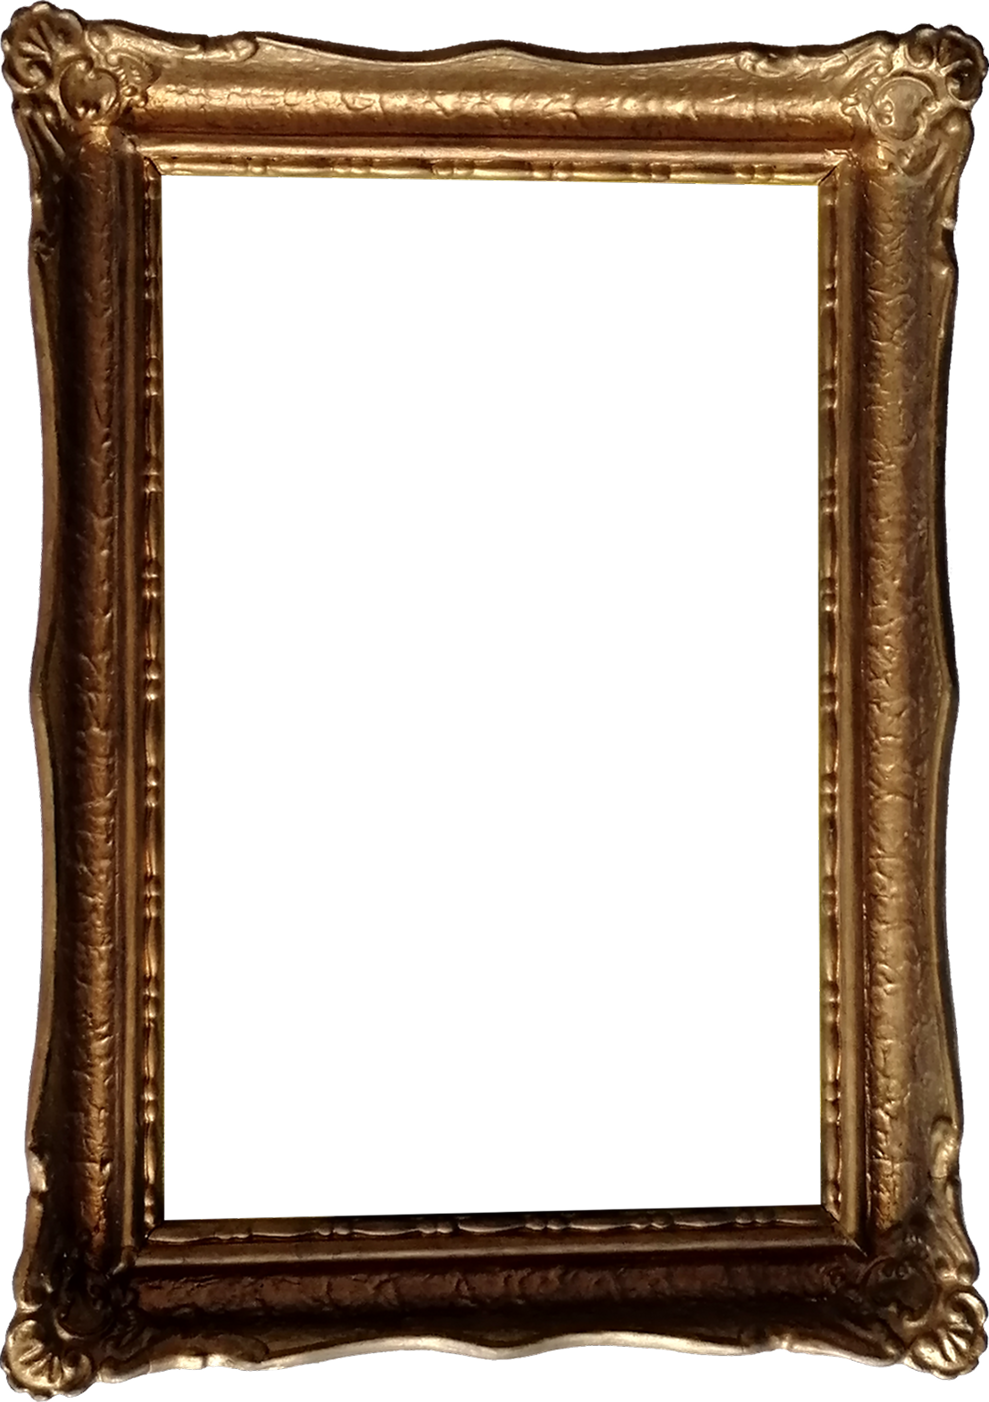
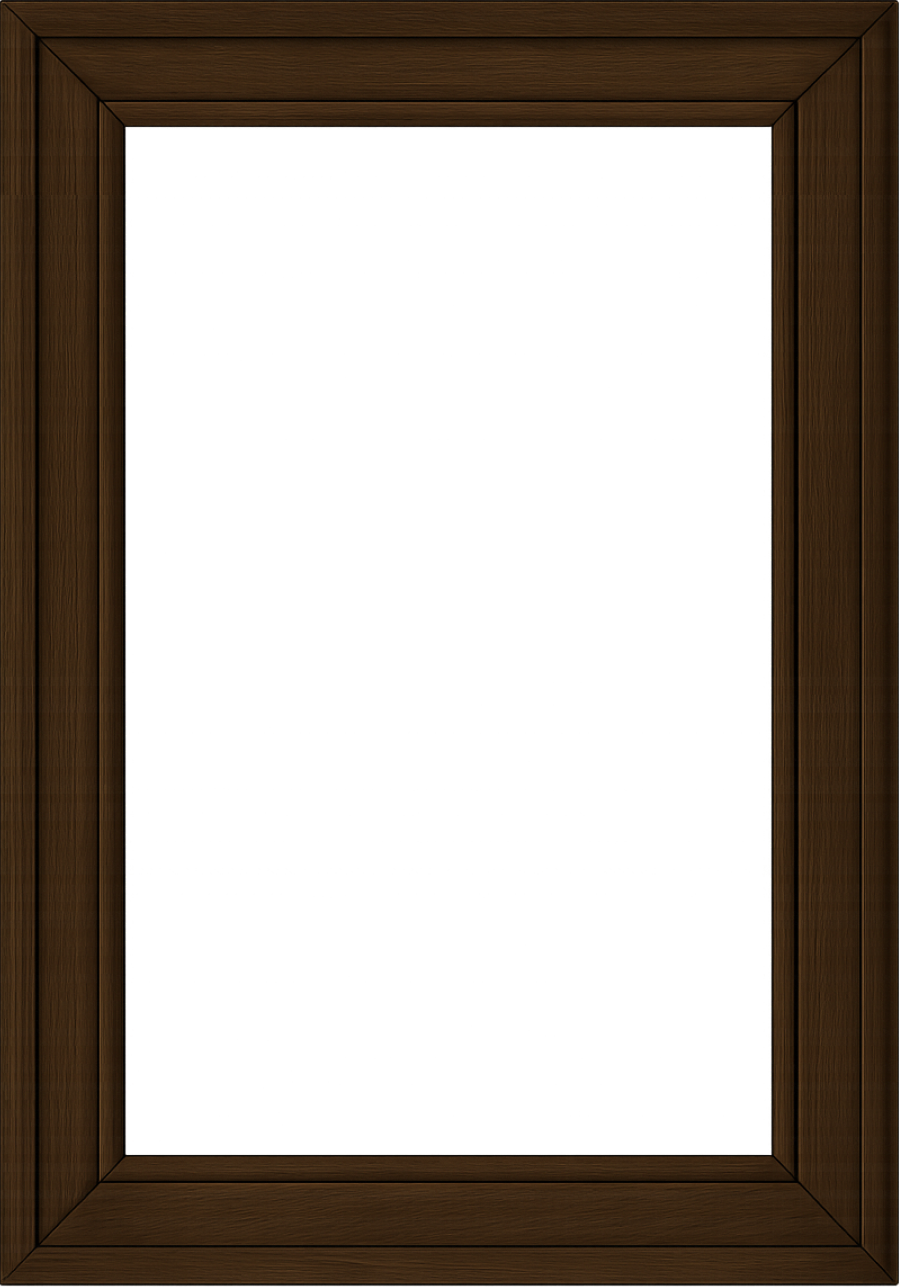
Update: Updated styling for paintingPuzzle

diff --git a/src/components/Puzzles/PaintingPuzzle/PaintingPuzzle.tsx b/src/components/Puzzles/PaintingPuzzle/PaintingPuzzle.tsx
@@ -51,7 +51,7 @@ export default function PaintingPuzzle() {
   }, [painting]);
 
   return (
-    <section className="flex flex-col items-center gap-10 p-2">
+    <section className="flex flex-col items-center gap-10 p-2 bg-[#191807]">
       {isSolved ? (
         <>
           <Image
@@ -59,20 +59,20 @@ export default function PaintingPuzzle() {
             alt="Finished Painting"
             height={720}
             width={720}
-            className="h-auto w-55"
+            className="h-auto w-55 pt-8"
           />
           <Image
             src="/images/paintingPuzzlePaintings/painting-frame.png"
             alt="Frame"
             width={720}
             height={720}
-            className="absolute z-20 h-auto w-69 top-0 pointer-events-none"
+            className="absolute z-20 h-auto w-68 top-4 pointer-events-none"
           />
           <div className="text-center w-full flex items-center flex-col justify-center p-5">
             <p className="bg-green-100 text-green-800 p-3 mb-4 rounded w-full">
               Good job! The painting has been repaired!
             </p>
-            <p className="text-xl mb-4">
+            <p className="text-xl mb-4 text-white">
               You&apos;ve discovered code digit:{" "}
               <span className="font-bold text-2xl">D{solutionDigit}</span>
             </p>
@@ -133,7 +133,7 @@ export default function PaintingPuzzle() {
             alt="Frame"
             width={720}
             height={720}
-            className="absolute z-20 h-auto w-70 top-0 pointer-events-none"
+            className="absolute z-20 h-auto w-66 top-3 pointer-events-none"
           />
           <section
             tabIndex={0}
@@ -148,7 +148,7 @@ export default function PaintingPuzzle() {
                 setFocusMode("none");
               }
             }}
-            className="focus:shadow-[0_0_50px_rgba(190,140,60,0.7)]"
+            className="focus:shadow-[0_0_50px_rgba(190,140,60,0.7)] bg-[url(/images/paintingPuzzlePaintings/painting-table.png)] bg-no-repeat bg-cover"
           >
             <PaintingPuzzlePieces
               pieces={inventory}

diff --git a/src/components/Puzzles/PaintingPuzzle/PaintingGrid.tsx b/src/components/Puzzles/PaintingPuzzle/PaintingGrid.tsx
@@ -46,7 +46,7 @@ export default function PaintingGrid({
           tabIndex={focusMode ? 0 : -1}
           data-painting-index={index}
           onClick={() => handleClick(index)}
-          className="w-16 h-18 border-1 border-gray-400 items-center bg-gray-200 justify-center duration-150 ease-in-out focus:outline-none focus:ring-2 focus:ring-yellow-400 transition-all focus:shadow-[0_0_50px_rgba(190,140,60,0.7)]"
+          className="w-16 h-18 border-1 border-[#3F2915] items-center bg-[#30260C] justify-center duration-150 ease-in-out focus:outline-none focus:ring-2 focus:ring-yellow-400 transition-all focus:shadow-[0_0_50px_rgba(190,140,60,0.7)]"
         >
           {piece && (
             <Image

diff --git a/src/components/Puzzles/PaintingPuzzle/PaintingPuzzlePieces.tsx b/src/components/Puzzles/PaintingPuzzle/PaintingPuzzlePieces.tsx
@@ -39,7 +39,7 @@ export default function PaintingPuzzlePieces({
           onClick(selectedPiece);
         }
       }}
-      className="flex flex-wrap gap-2 items-center justify-center w-full p-2 bg-gray-200 border-1 border-gray-400 focus:shadow-[0_0_50px_rgba(255,215,0.6)]"
+      className="flex flex-wrap gap-2 items-center justify-center w-full p-2 border-2 border-[#3F2915] focus:shadow-[0_0_50px_rgba(255,215,0.6)]"
     >
       {pieces.map((piece, index) => (
         <Image
